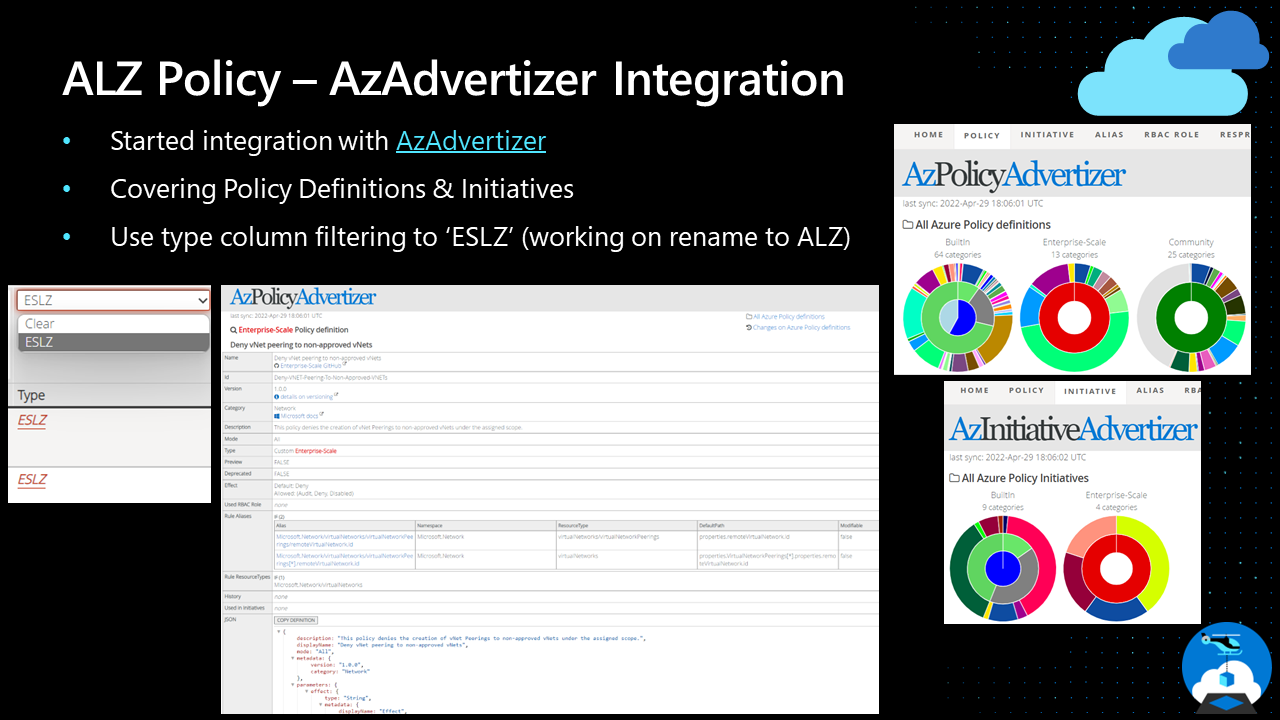
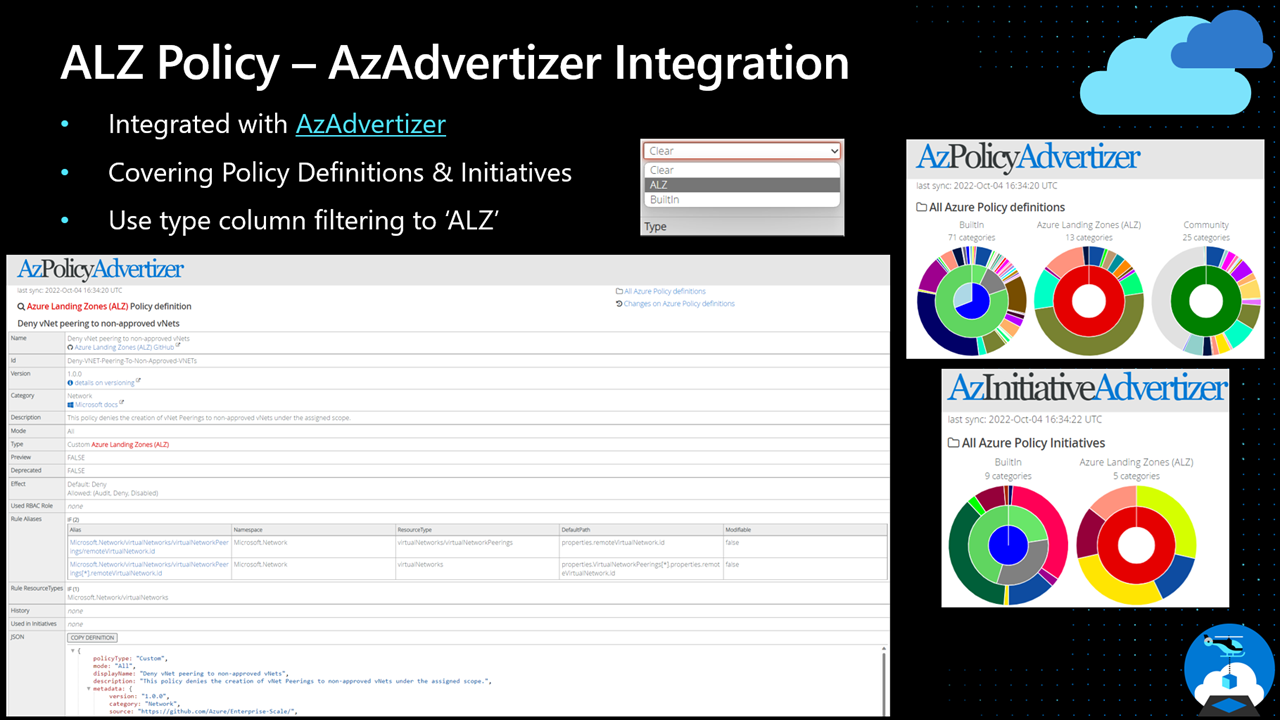
Guidance Update - Policies to Built-In (#363)
* Push update

* Update

* Fix heading references

* Syntax fixes

* Update script guidance and include script as well

* Update docs/wiki/PolicyDeepDive.md

* Update docs/wiki/PolicyDeepDive.md

* Add update around script usage

* Update alzPolicyAzAdvertiser.png

diff --git a/docs/wiki/PolicyDeepDive.md b/docs/wiki/PolicyDeepDive.md
@@ -71,3 +71,176 @@ Please see the following wiki article that explains this process further: [Addin
 ## How do we assign a built-in or custom Azure Policy?
 
 Please see the following wiki article that explains this process further: [Assigning Azure Policies](https://github.com/Azure/ALZ-Bicep/wiki/AssigningPolicies)
+
+## How to migrate ALZ custom policies to Azure built-in policies
+
+Every so often there will be a new Azure built-in policy or policy initiative that replicates functionality previously found only in ALZ custom policies. When this happens, a new release of ALZ-Bicep will contain details around the policies involved as well as upgrade considerations. The below describes generic scenarios for migrating from ALZ custom policies to Azure built-in policies, leveraging ALZ-Bicep functionality.
+
+### Update scenarios
+There are the following scenarios for ALZ custom policies being superseded by Azure built-in policies, listed in increasing order of complexity:
+1. A single ALZ custom policy, which is not assigned anywhere in your Azure estate, is superseded by an Azure built-in policy. The process for managing this is described in [Migrate single ALZ custom policy to built-in policy](#migrate-single-alz-custom-policy-to-built-in-policy).
+2. A single ALZ custom policy, which is assigned at one or more scopes in your Azure estate, is superseded by an Azure built-in policy. The process for managing this is described in [Migrate single ALZ custom policy to built-in policy](#migrate-single-alz-custom-policy-to-built-in-policy).
+3. One or more ALZ custom policies, assigned via ALZ custom policy intiative, which are superseded by Azure built-in policies. The process for managing this is described in [Migrate ALZ custom policies in initiatives to built-in policies](#migrate-alz-custom-policies-in-initiatives-to-built-in-policies).
+
+#### Migrate single ALZ custom policy to built-in policy
+For this scenario we will use the ALZ custom policy ```Deny the creation of public IP``` which will be migrated to the built-in policy ```Not allowed resource types```
+
+To carry out the instructions in the scenario the operator will require Resource Policy Permissions at the root of the ALZ management group hierarchy
+
+- Go to `https://portal.azure.com`
+- Open Policy
+- Go to Definitions and in Search find the ALZ custom policy.
+
+  ![alz-custom-policy-def-search](media/alz-update-to-builtin-01.png)
+
+- Click on the hyperlink for the policy definition
+- To determine if the policy is assigned at any scope in the ALZ management group structure start by getting the policy definition ID
+
+  ![alz-custom-policy-def-name](media/alz-determine-policy-assign-01.png)
+
+- Since there is no easy way to get the various scopes a policy is assigned to, go to Azure Resource Graph Explorer
+- Ensure that scope for the query is Directory and then execute the following kusto query:
+
+  ```kusto
+    PolicyResources |
+    where kind =~ 'policyassignments' and tostring(properties.policyDefinitionId) =~ '/providers/Microsoft.Management/managementGroups/contoso/providers/Microsoft.Authorization/policyDefinitions/Deny-PublicIP'
+    | extend
+        assignmentScope = tostring(properties.scope),
+        assignmmentNotScopes = tostring(properties.notScopes),
+        assignmmentParameters = tostring(properties.parameters)
+    | project assignmentScope,
+        assignmmentNotScopes,
+        assignmmentParameters
+  ```
+
+- The above command will give different results depending on whether the policy is assigned or not. If the policy is not assigned, you can jump directly to the Delete Policy Definition step in the following. If the policy is assigned though you should get a result somewhat similar to what is shown below.
+
+  ![alz-custom-policy-assignments](media/alz-determine-policy-assign-02.png)
+
+- As can be seen this particular policy is assigned with only a simple Deny effect parameter at the following levels in the management group structure
+  - `Contoso/contoso-landingzones/contoso-landingzones-corp`
+  - `Contoso/contoso-platform/contoso-platform-identity`
+
+> Note that the provided example has a simple parameter set. If more complex parameters are assigned to a policy which is to be migrated those should be noted down. In that respect the possibility to download the query results as CSV could be leveraged.
+
+- Switch from Azure Resource Graph Explorer back to the Policy view
+- Change the scope to include the scopes determined in the previous step. and search for the relevant policy
+
+  ![alz-delete-policy-assignments](media/alz-delete-policy-assign-01.png)
+
+- For each assignment, click the ellipsis and select Delete Assignment.
+- Once all policy assignments are deleted, go to the Definitions pane, search for the definition. Once found click the ellipsis and choose Delete Policy Definition
+- Follow the steps in [Manually synchronize your local repo with ALZ-Bicep](#manually-synchronize-your-local-repo-with-alz-bicep) to synchronize policy updates from the ALZ-Bicep repository to your local repo.
+
+### Migrate ALZ custom policies in initiatives to built-in policies
+
+For this scenario we will use the ALZ custom initiative ```Deploy Diagnostic Settings to Azure Services``` which is leveraging quite a large number of ALZ custom policies to apply diagnostics settings for various resources.
+
+To carry out the instructions in the scenario the operator will require Resource Policy Permissions at the root of the ALZ management group hierarchy
+
+- Go to `https://portal.azure.com`
+- Open Policy
+- Go to Definitions and in Search find the ALZ custom policy initiative.
+
+  ![alz-custom-initiative-def-search](media/alz-update-initiative-with-builtin-01.png)
+
+- Click on the hyperlink for the initiative definition
+- To determine where the initiative is assigned at any scope in the ALZ management group structure start by getting the initiative name
+
+  ![alz-custom-initiative-def-name](media/alz-update-initiative-with-builtin-02.png)
+
+- Since there is no easy way to get the various scopes an initiative is assigned to, got Azure Resource Graph Explorer
+- Ensure that scope for the query is Directory and then execute the following kusto query:
+
+  ```kusto
+    PolicyResources |
+    where kind =~ 'policyassignments' and tostring(properties.policyDefinitionId) =~ '/providers/Microsoft.Management/managementGroups/contoso/providers/Microsoft.Authorization/policySetDefinitions/Deploy-Diagnostics-LogAnalytics'
+    | extend
+        assignmentScope = tostring(properties.scope),
+        assignmmentNotScopes = tostring(properties.notScopes),
+        assignmmentParameters = tostring(properties.parameters)
+    | project assignmentScope,
+        assignmmentNotScopes,
+        assignmmentParameters
+  ```
+
+- The above command will give a result similar to what is shown below
+
+  ![alz-custom-initiative-assignments](media/alz-update-initiative-with-builtin-03.png)
+
+- As can be seen this particular initiative is assigned with only a single parameter at the following levels in the management group structure
+  - `Contoso/`
+
+> Note
+that the provided example has a simple parameter set. If more complex parameters are assigned to a policy which is to be migrated those should be noted down. In that respect the possibility to download the query results as CSV could be leveraged.
+
+- Switch from Azure Resource Graph Explorer back to the Policy view
+- Change the scope to include the scope described above, and search for the relevant initiative
+
+  ![alz-delete-initiative-assignments](media/alz-update-initiative-with-builtin-04.png)
+
+- For each assignment, click the ellipsis and select Delete Assignment.
+- Once all initiative assignments are deleted, go to the Definitions pane, search for the initiative definition. Once found click the ellipsis and choose Delete Policy Definition
+
+    ![alz-custom-initiative-def-search](media/alz-update-initiative-with-builtin-01.png)
+
+- Follow the steps in [Manually synchronize your local repo with ALZ-Bicep](#manually-synchronize-your-local-repo-with-alz-bicep) to synchronize policy updates from the ALZ-Bicep repository to your local repo.
+
+### Manually synchronize your local repo with ALZ-Bicep
+
+To get the latest updates from the ALZ-Bicep repo and download to you local repo, do the following.
+- On a client where you have already cloned your version of the ALZ-Bicep repo, start a PowerShell command prompt
+- Navigate to the root of the local version of the repo
+- Verify that you are on the main branch and up-to-date by running the following commands
+
+  ```posh
+  git checkout main
+  git pull
+  ```
+
+- If you did not already, copy the [`Invoke-GitHubReleaseFetcher.ps1`](https://github.com/Azure/ALZ-Bicep/tree/main/.github/scripts/Invoke-GitHubReleaseFetcher.ps1) script into the following location in your ALZ-Bicep repository: `.github/scripts/`
+- Synchronize your local repo with the ALZ-Bicep repo by running the following
+command
+
+  ```posh
+  .github/scripts/Invoke-GitHubReleaseFetcher.ps1 -githubRepoUrl "https://github.com/Azure/ALZ-Bicep" -directoryAndFilesToKeep @("infra-as-code/bicep/modules/policy")
+  ```
+- The above script will create a releases folder in the root of your local repo containing a version folder (e.g. v0.10.6), in that folder will be a policy folder containing all the latest updates to policy assignments and policy definitions from the ALZ-Bicep repo.
+- To update your local copy of the repo with the policy changes run the following command
+
+  ```posh
+  Copy-Item -Path .\releases\<version folder>\policy\* -Destination .\infra-as-code\bicep\modules\policy\ -Recurse -Force
+  ```
+- After completing the above, perform the following verification tasks
+  - Verify that removed policy definition has been removed from ./infra-as-code/bicep/modules/policy/definitions/customPolicyDefinitions.bicep
+  - Verify that ./infra-as-code/bicep/modules/policy/assignments/alzdefaults/alzDefaultPolicyAssignments.bicep has been updated to no longer include assignments for the removed ALZ custom policy
+  - Verify that the built-in policy has been added to ./infra-as-code/bicep/modules/policy/assignments/alzdefaults/alzDefaultPolicyAssignments.bicep if relevant.
+  - If the built-in policy requires input parameters, verify that samples of those are included in ./infra-as-code/bicep/modules/policy/assignments/alzdefaults/parameters/alzDefaultPolicyAssignments.parameters.all.json, and modify your own version of the parameter file accordingly.
+
+- Create a branch for the updates by running the following commands
+
+  ```posh
+  git branch <your branch name>
+  git checkout <your branch name>
+  ```
+
+- Run git status to verify which files are modified
+- Run git add <`filename`> to add the relevant files to staging. The following files could be in scope:
+  - ./infra-as-code/bicep/modules/policy/assignments/alzdefaults/alzDefaultPolicyAssignments.bicep
+  - ./infra-as-code/bicep/modules/policy/assignments/alzdefaults/parameters/alzDefaultPolicyAssignments.parameters.all.json
+  - ./infra-as-code/bicep/modules/policy/assignments/alzdefaults/parameters/<your default policy assignment parameter file>
+  - ./infra-as-code/bicep/modules/policy/definitions/customPolicyDefinitions.bicep
+  - ./infra-as-code/bicep/modules/policy/definitions/lib/policy_definitions/<removed ALZ custom policy definition file>
+  - ./infra-as-code/bicep/modules/policy/definitions/lib/policy_set_definitions/<removed ALZ custom policy initiative definition file>
+
+- Follow the steps in [Deploy changed policy assignments](#deploy-changed-policy-assignments) to deploy and test any changed policy assignments
+
+### Deploy changed policy assignments
+
+- Leveraging the guidance in [Module: Custom Policy Definitions](https://github.com/Azure/ALZ-Bicep/tree/main/infra-as-code/bicep/modules/policy/definitions), deploy the updated custom policy definitions to your [canary environment](https://learn.microsoft.com/en-us/azure/cloud-adoption-framework/ready/enterprise-scale/testing-approach). After deploying verify that only the expected policy definitions has been created.
+- Leveraging the guidance in [Module: ALZ Default Policy Assignments](https://github.com/Azure/ALZ-Bicep/tree/main/infra-as-code/bicep/modules/policy/assignments/alzDefaults), deploy the updated default policy assignments to your [canary environment](https://learn.microsoft.com/en-us/azure/cloud-adoption-framework/ready/enterprise-scale/testing-approach). After deploying verify that only the expected policy assignments has been created.
+- Test that policies are working as intended.
+- After the above steps have completed, leverage the guidance in [Module: Custom Policy Definitions](https://github.com/Azure/ALZ-Bicep/tree/main/infra-as-code/bicep/modules/policy/definitions), deploy the updated custom policy definitions to your production environment
+- Leveraging the guidance in [Module: ALZ Default Policy Assignments](https://github.com/Azure/ALZ-Bicep/tree/main/infra-as-code/bicep/modules/policy/assignments/alzDefaults), deploy the updated default policy assignments to your production environment
+
+
